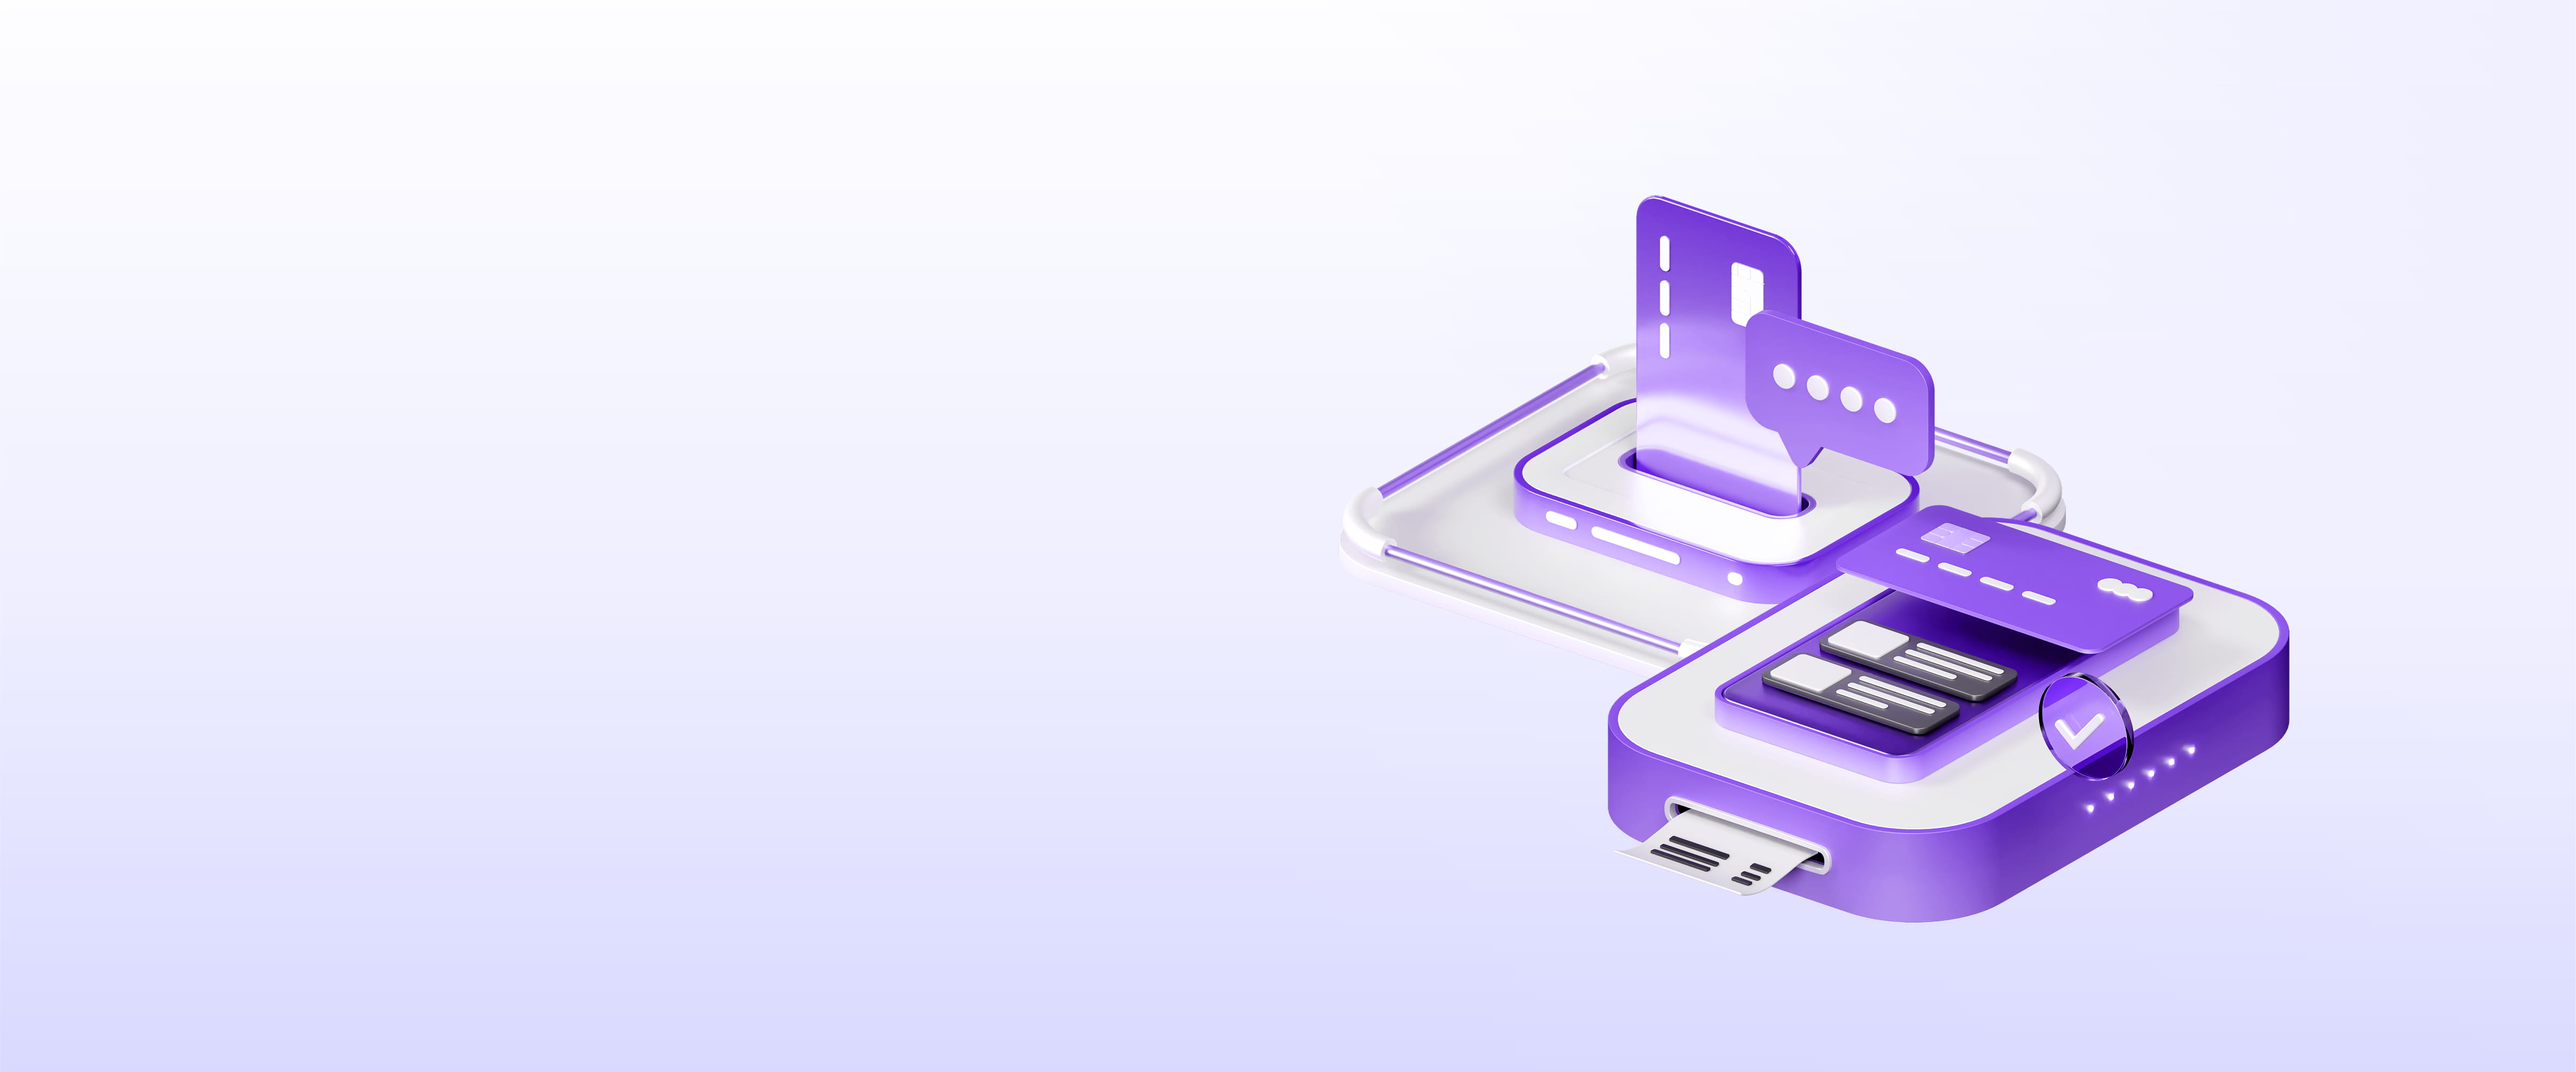
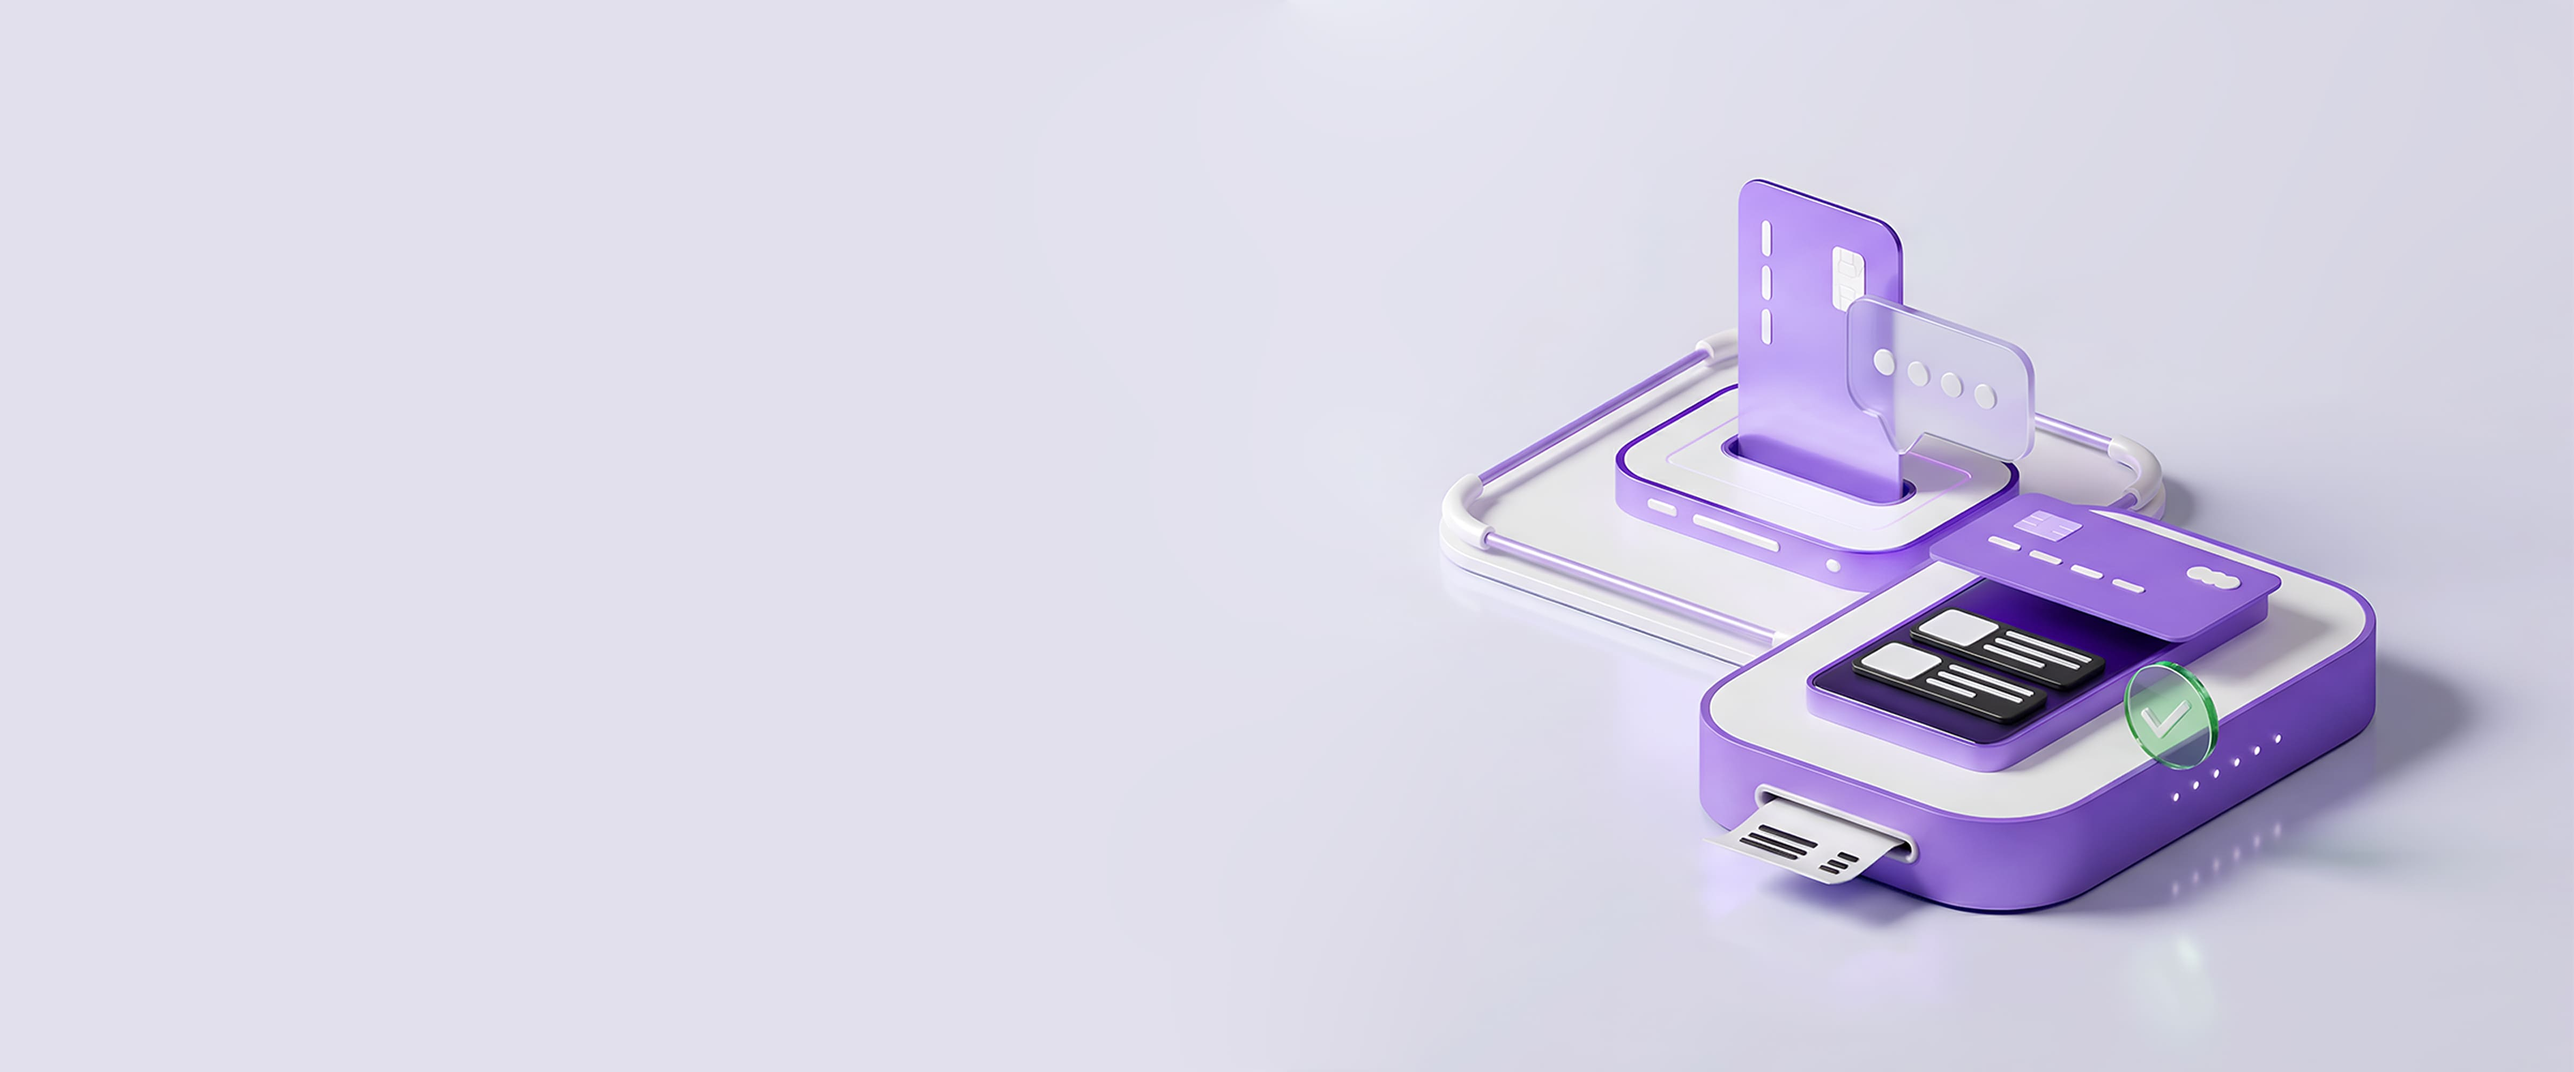
updates

diff --git a/src/scss/components/media/_psp-payment.scss b/src/scss/components/media/_psp-payment.scss
@@ -4,6 +4,8 @@
 @media (max-width: 1920px) {
     .page-psp-payment {
         .main-screen {
+            background-position: center right 20%;
+
             &__container {
                 max-width: 600px;
             }
@@ -28,9 +30,10 @@
     .page-psp-payment {
         .main-screen {
             background-image: url('../images/psp-payment/main-screen/desktop.jpg');
+            background-position: center right 10%;
 
             &__container {
-                max-width: 500px;
+                max-width: 390px;
             }
         }
 
@@ -52,6 +55,9 @@
 
 @include breakpoint.small-desktop {
     .page-psp-payment {
+        .main-screen {
+            background-position: center right 20%;
+        }
         .what-we-do {
             .content {
                 max-width: 500px;
@@ -77,7 +83,29 @@
 @include breakpoint.tablet {
     .page-psp-payment {
         .main-screen {
-            min-height: 840px;
+            min-height: 1042px;
+            justify-content: flex-start;
+            text-align: center;
+            background-image: url('../images/psp-payment/main-screen/mobile.jpg');
+            background-position: center bottom 20%;
+            background-size: cover;
+            padding-block: 100px;
+
+            &__container {
+                max-width: inherit;
+            }
+
+            .title {
+                max-width: inherit;
+            }
+
+            .text {
+                max-width: inherit;
+            }
+
+            .btn-main {
+                margin-inline: auto;
+            }
         }
 
         .design {
@@ -101,29 +129,8 @@
 @include breakpoint.small-tablet {
     .page-psp-payment {
         .main-screen {
-            padding-block: 60px;
-            min-height: 710px;
-            justify-content: flex-start;
-            text-align: center;
-            background-image: url('../images/psp-payment/main-screen/mobile.jpg');
-            background-position: 50%;
-            background-size: cover;
-
-            &__container {
-                max-width: inherit;
-            }
-
-            .title {
-                max-width: inherit;
-            }
-
-            .text {
-                max-width: inherit;
-            }
-
-            .btn-main {
-                margin-inline: auto;
-            }
+            background-size: auto;
+            background-position: center bottom;
         }
 
         .design {
@@ -177,6 +184,9 @@
 @include breakpoint.mobile {
     .page-psp-payment {
         .main-screen {
+            padding-block: 60px;
+            min-height: 710px;
+            background-size: cover;
             background-position: center;
         }
 
